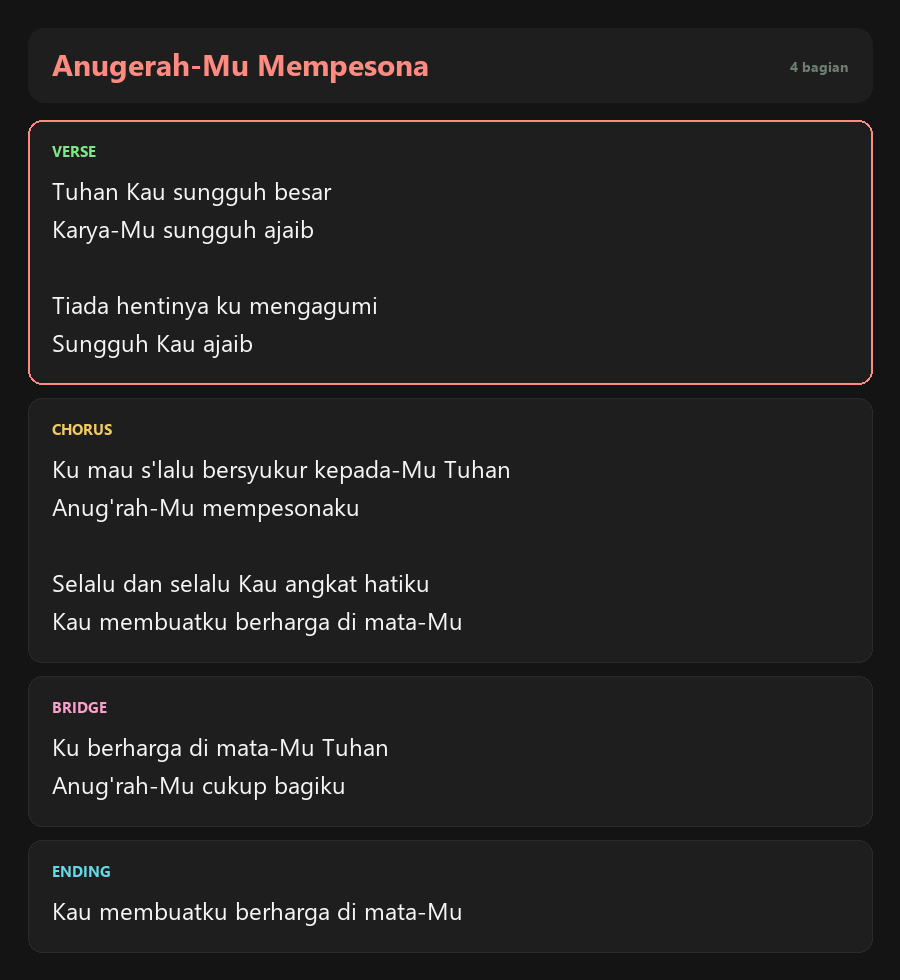
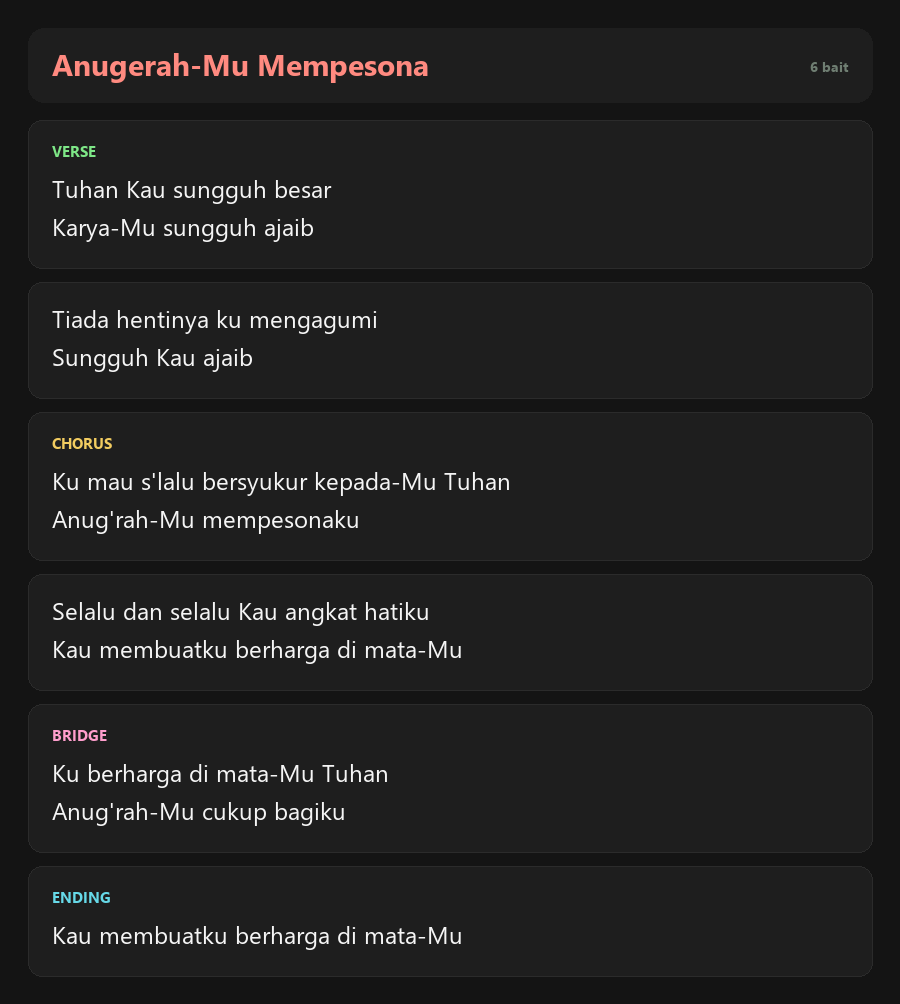
feat: tombol Upload Media di bg dock (multi-file image/video, anti-overwrite, max 200MB)
- POST /api/upload_media: raw binary body + header X-Filename/X-Media-Type
  (tanpa dependency multipart; nama dinormalisasi, ext divalidasi, dup -> -1/-2)
- operator: tombol UPLOAD di bg dock -> file picker multi -> upload berurutan
  + toast progress, fetchBackgrounds() auto-reload + jump ke item baru

diff --git a/SYSTEM/templates/operator.html b/SYSTEM/templates/operator.html
@@ -1145,7 +1145,12 @@
             <div id="bg-dock">
                 <div class="dock-empty">Loading...</div>
             </div>
-            <button class="dock-nav-btn dock-nav-right" onclick="jumpDock('end')" title="Go to End"><svg class="icon" style="width:20px; height:20px;" viewBox="0 0 24 24" fill="none" stroke="currentColor" stroke-width="2"><line x1="4" y1="4" x2="4" y2="20"></line><polygon points="4 12 20 4 20 20"></polygon></svg></button>
+            <button class="dock-nav-btn dock-nav-right" onclick="jumpDock('end')" title="Go to End"><svg class="icon" style="width:20px; height:20px;" viewBox="0 0 24 24" fill="none" stroke="currentColor" stroke-width="2"><polygon points="4 12 20 4 20 20"></polygon></svg></button>
+            <button id="btn-upload-media" class="dock-nav-btn" style="width:62px; flex:0 0 62px; height:62px; border-radius:16px; background:var(--bg-element); border:2px dashed var(--color-db, #38bdf8); color:var(--color-db, #38bdf8); margin:0 10px; display:flex; flex-direction:column; gap:2px; align-items:center; justify-content:center; cursor:pointer;" onclick="openUploadMedia()" title="Upload Media (gambar/video ke background dock)">
+                <svg class="icon" style="width:18px; height:18px;" viewBox="0 0 24 24" fill="none" stroke="currentColor" stroke-width="2" stroke-linecap="round" stroke-linejoin="round"><path d="M21 15v4a2 2 0 0 1-2 2H5a2 2 0 0 1-2-2v-4"/><polyline points="17 8 12 3 7 8"/><line x1="12" y1="3" x2="12" y2="15"/></svg>
+                <span style="font-size:0.6rem; font-weight:700;">UPLOAD</span>
+            </button>
+            <input type="file" id="upload-media-input" accept="image/*,video/mp4,video/webm" multiple style="display:none;" onchange="handleUploadMedia(this.files)">
             <button class="dock-nav-btn dock-nav-right" onclick="scrollDock(400)" title="Scroll Right"><svg class="icon" style="width:20px; height:20px;" viewBox="0 0 24 24" fill="none" stroke="currentColor" stroke-width="2"><polyline points="9 18 15 12 9 6"></polyline></svg></button>
         </div>
     </div>
@@ -2109,6 +2114,34 @@
         function scrollDock(amount) { 
             const dock = document.getElementById('bg-dock');
             dock.scrollLeft += amount;
+        }
+        // --- UPLOAD MEDIA ---
+        function openUploadMedia() { document.getElementById('upload-media-input').click(); }
+        async function handleUploadMedia(fileList) {
+            const files = Array.from(fileList || []);
+            if (files.length === 0) return;
+            for (const f of files) {
+                const ext = (f.name.split('.').pop() || '').toLowerCase();
+                const isVideo = ['mp4', 'webm'].includes(ext);
+                const isImage = ['jpg', 'jpeg', 'png', 'gif', 'webp'].includes(ext);
+                if (!isVideo && !isImage) { showToast('Ditolak: ' + f.name + ' (format tidak didukung)'); continue; }
+                try {
+                    showToast('Mengunggah ' + f.name + '...');
+                    const res = await fetch('/api/upload_media', {
+                        method: 'POST',
+                        headers: { 'X-Filename': f.name, 'X-Media-Type': isVideo ? 'VIDEO' : 'IMAGE', 'Content-Type': 'application/octet-stream' },
+                        body: f
+                    });
+                    const data = await res.json();
+                    if (!res.ok) { showToast('Gagal: ' + (data.error || res.status)); continue; }
+                    showToast('Tersimpan: ' + data.name);
+                } catch (e) {
+                    showToast('Gagal upload ' + f.name);
+                }
+            }
+            document.getElementById('upload-media-input').value = '';
+            await fetchBackgrounds();
+            jumpDock('end');
         }
         function jumpDock(position) {
             const dock = document.getElementById('bg-dock');

diff --git a/SOURCE/server.node.js b/SOURCE/server.node.js
@@ -393,6 +393,60 @@ function initData() {
 const app = express();
 app.use(express.json({ limit: '10mb' }));
 
+// --- MEDIA UPLOAD (raw binary body, header X-Filename) ---
+// dipakai tombol "Upload Media" di bg dock operator: POST /api/upload_media
+// Body = file binary murni (bukan multipart/base64). Header:
+//   X-Filename : nama asli (dinormalisasi), X-Media-Type : IMAGE|VIDEO (opsional)
+const UPLOAD_MAX_MB = 200;
+app.post('/api/upload_media', (req, res) => {
+  const rawName = String(req.headers['x-filename'] || 'media').trim();
+  // normalisasi nama: buang path & karakter berbahaya, sisakan [a-zA-Z0-9 ._-]
+  let safe = path.basename(rawName).replace(/[^\w.\- ]+/g, '_').replace(/\s+/g, '_').slice(0, 80) || 'media';
+  const declared = String(req.headers['x-media-type'] || '').toUpperCase();
+  let ext = path.extname(safe).toLowerCase();
+  const VALID = { IMAGE: ['.jpg', '.jpeg', '.png', '.gif', '.webp'], VIDEO: ['.mp4', '.webm'] };
+  const typeFromExt = ['.mp4', '.webm'].includes(ext) ? 'VIDEO' : 'IMAGE';
+  const type = VALID.IMAGE.includes(ext) || VALID.VIDEO.includes(ext)
+    ? (declared === 'VIDEO' || declared === 'IMAGE' ? declared : typeFromExt)
+    : null;
+  if (!type) return res.status(400).json({ error: 'Ekstensi tidak didukung (jpg/png/gif/webp/mp4/webm)' });
+  if (!fs.existsSync(BG_DIR)) fs.mkdirSync(BG_DIR, { recursive: true });
+  // hindari overwrite: jika sudah ada, tambah -1, -2, ...
+  let finalName = safe;
+  let n = 1;
+  while (fs.existsSync(path.join(BG_DIR, finalName))) {
+    const base = path.basename(safe, path.extname(safe));
+    finalName = `${base}-${n}${path.extname(safe)}`;
+    n++;
+  }
+  const chunks = [];
+  let total = 0;
+  let aborted = false;
+  req.on('data', (chunk) => {
+    total += chunk.length;
+    if (total > UPLOAD_MAX_MB * 1024 * 1024) {
+      aborted = true;
+      req.destroy();
+      res.status(413).json({ error: 'File terlalu besar (max ' + UPLOAD_MAX_MB + 'MB)' });
+      return;
+    }
+    chunks.push(chunk);
+  });
+  req.on('end', () => {
+    if (aborted) return;
+    try {
+      fs.writeFileSync(path.join(BG_DIR, finalName), Buffer.concat(chunks));
+      log(`[Upload] ${finalName} (${(total / 1024 / 1024).toFixed(1)} MB, ${type}) oleh operator`);
+      res.json({ status: 'ok', name: finalName, type, url: `/backgrounds/${encodeURIComponent(finalName)}` });
+    } catch (e) {
+      log('[Upload] Gagal simpan: ' + e.message);
+      res.status(500).json({ error: 'Gagal simpan file' });
+    }
+  });
+  req.on('error', () => { if (!aborted) res.status(500).json({ error: 'Koneksi terputus saat upload' }); });
+});
+
+
 app.use((req, res, next) => {
   res.setHeader('Access-Control-Allow-Origin', '*');
   next();

diff --git a/SYSTEM/tools/gen_lyric_images.py b/SYSTEM/tools/gen_lyric_images.py
@@ -63,16 +63,16 @@ def render(title, lyrics, path):
     title_lines = wrap(tmp, title, f_title, inner - 160)
     head_h = max(74, len(title_lines)*40 + 30)
 
+    # 1 KARTU PER BAIT — label hanya di AWAL SEKSI (newGroup=True)
     cards = []
-    for typ, grp in groups(lyrics):
-        lines = []
-        for k, sl in enumerate(grp):
-            if k: lines.append("")          # jeda antar bait
-            lines += wrap(tmp, sl.get("text",""), f_lyr, inner)
-        h = CARD_PY*2 + LBL_H + 10 + len(lines)*LH
-        cards.append((typ, lines, h))
+    for sl in lyrics:
+        typ = sl.get("type", "v")
+        show_lbl = bool(sl.get("newGroup"))
+        lines = wrap(tmp, sl.get("text",""), f_lyr, inner)
+        h = CARD_PY*2 + len(lines)*LH + ((LBL_H + 8) if show_lbl else 0)
+        cards.append((typ, lines, h, show_lbl))
 
-    total = PAD + head_h + 18 + sum(h for _,_,h in cards) + GAP_CARD*(len(cards)-1) + PAD
+    total = PAD + head_h + 18 + sum(c[2] for c in cards) + GAP_CARD*(len(cards)-1) + PAD
     img = Image.new("RGB", (W, total), BG)
     d = ImageDraw.Draw(img)
 
@@ -81,15 +81,17 @@ def render(title, lyrics, path):
     y = PAD + 15
     for tl in title_lines:
         d.text((PAD+24, y), tl, font=f_title, fill=TITLE); y += 40
-    meta = f"{len(cards)} bagian"
+    meta = f"{len(cards)} bait"
     d.text((W-PAD-24-d.textlength(meta, font=f_meta), PAD+head_h/2-9), meta, font=f_meta, fill=META)
 
     y = PAD + head_h + 18
-    for idx, (typ, lines, h) in enumerate(cards):
+    for typ, lines, h, show_lbl in cards:
         d.rounded_rectangle([PAD, y, W-PAD, y+h], radius=14, fill=CARD,
-                            outline=(ACTIVE if idx==0 else BORDER), width=(2 if idx==0 else 1))
-        d.text((PAD+CARD_PX, y+CARD_PY), LBL.get(typ,"VERSE"), font=f_lbl, fill=CLR.get(typ,(126,231,135)))
-        ty = y + CARD_PY + LBL_H + 10
+                            outline=BORDER, width=1)
+        ty = y + CARD_PY
+        if show_lbl:
+            d.text((PAD+CARD_PX, ty), LBL.get(typ,"VERSE"), font=f_lbl, fill=CLR.get(typ,(126,231,135)))
+            ty += LBL_H + 8
         for ln in lines:
             if ln:
                 d.text((PAD+CARD_PX, ty), ln, font=f_lyr, fill=TXT)
